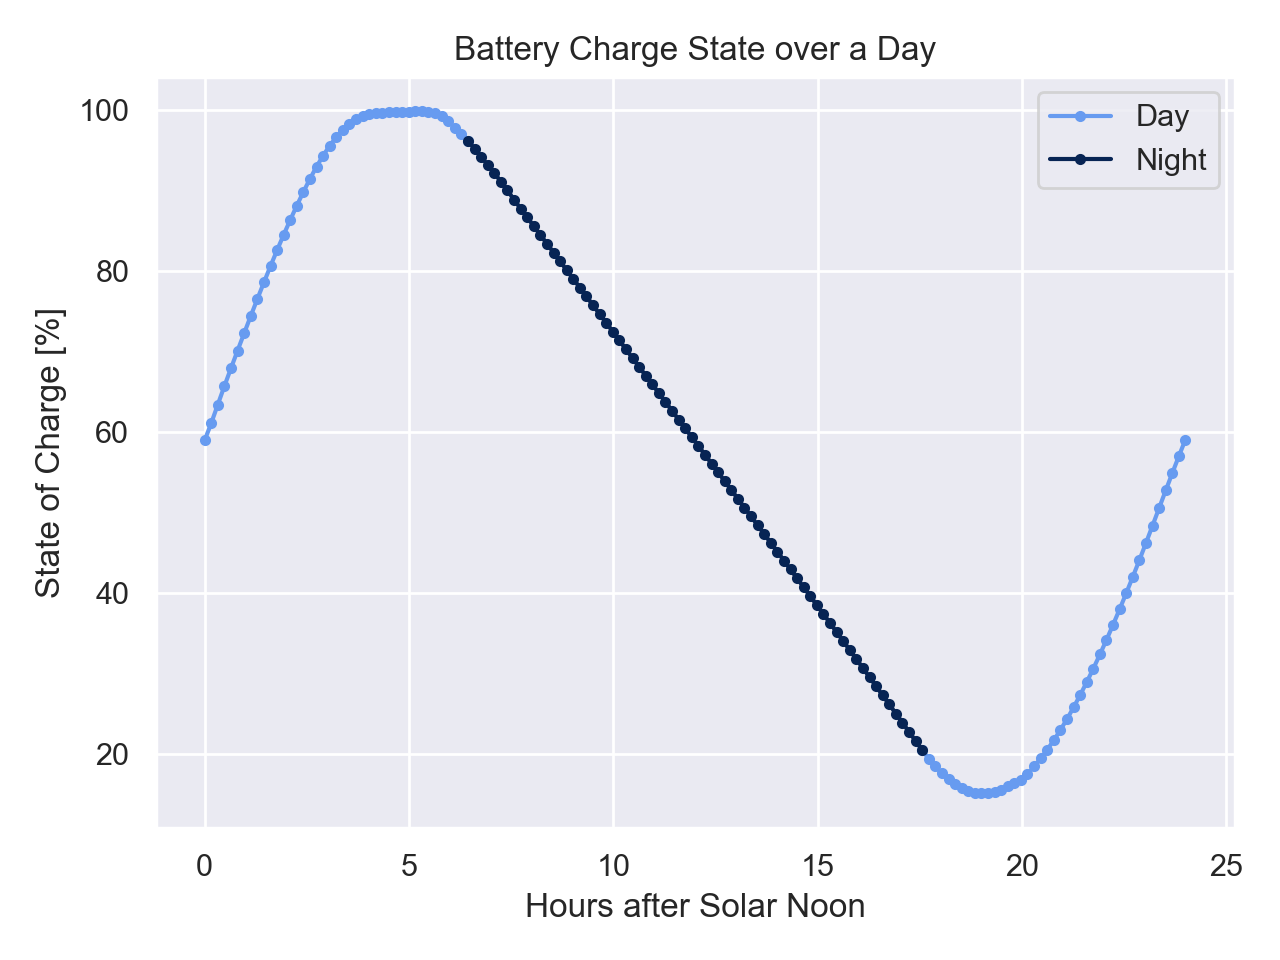
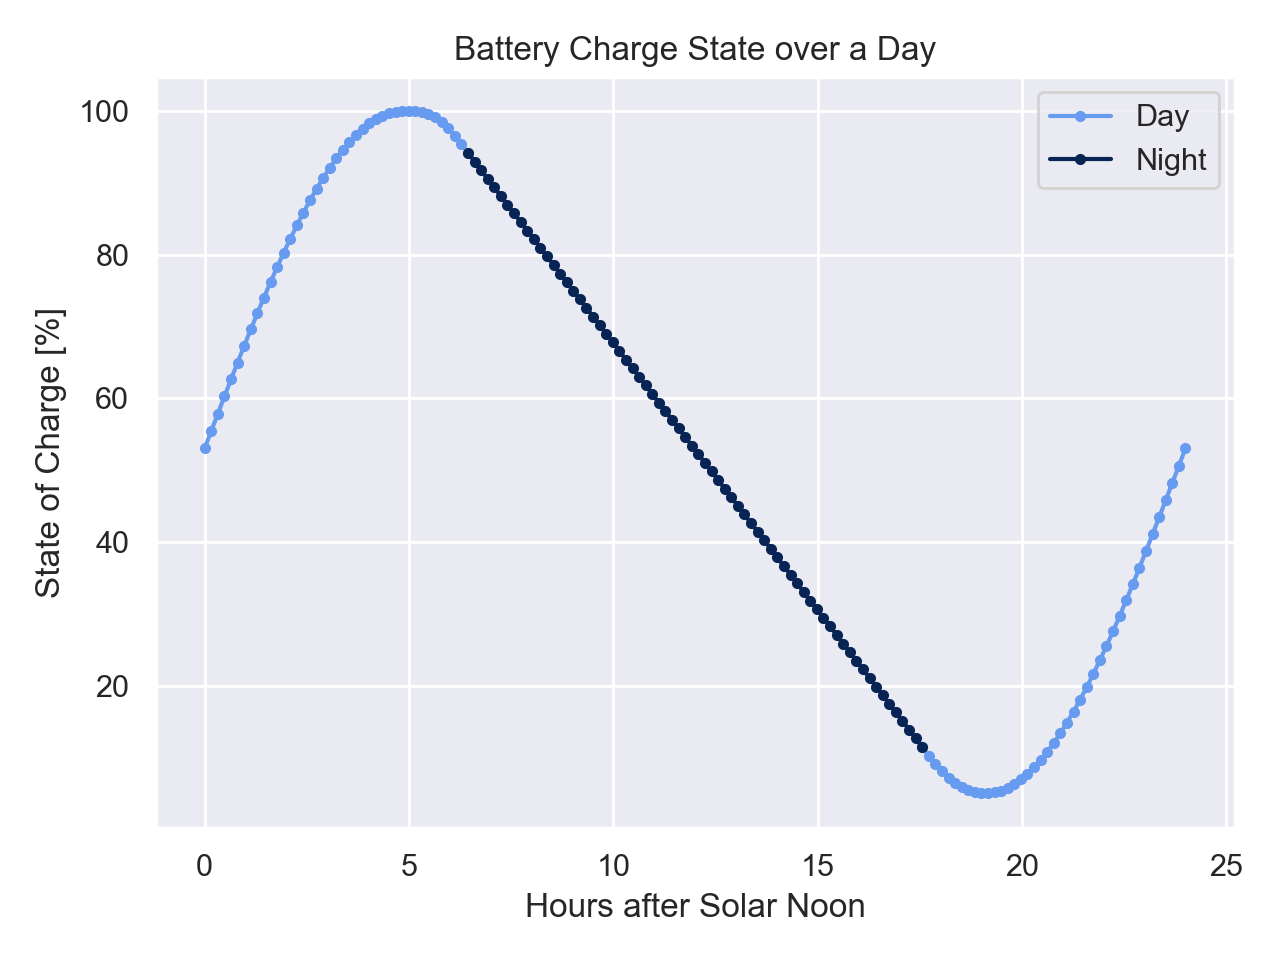
added updated uleck data

diff --git a/design_opt.py b/design_opt.py
@@ -34,10 +34,9 @@ file_to_save_to = "des_vars.json"
 # file_to_load_from = "des_vars.json"
 # file_to_save_to = None
 
-minimize = "wing.span() / 50"  # any "eval-able" expression
-
-
+# minimize = "wing.span() / 50"  # any "eval-able" expression
 # minimize = "max_mass_total / 300" # any "eval-able" expression
+minimize = "wing.span() / 50 * 0.9 + max_mass_total / 300 * 0.1"
 # minimize = "cas.sum1(airspeed/20)" # any "eval-able" expression
 
 def des_var(  # design variable
@@ -97,7 +96,7 @@ structural_mass_margin_multiplier = opti.parameter()
 opti.set_value(structural_mass_margin_multiplier, 1.25)
 energy_generation_margin = opti.parameter()
 opti.set_value(energy_generation_margin, 1.05)
-allowable_battery_depth_of_discharge = 0.85  # How much of the battery can you actually use? # Reviewed w/ Annick & Bjarni 4/30/2020
+allowable_battery_depth_of_discharge = 0.95  # How much of the battery can you actually use? # Reviewed w/ Annick & Bjarni 4/30/2020
 
 ##### Simulation Parameters
 n_timesteps = 150  # Only relevant if allow_trajectory_optimization is True.
@@ -195,7 +194,10 @@ wing_taper_ratio = 0.5
 
 # hstab
 hstab_span = des_var(name="hstab_span", initial_guess=12, scale_factor=15)
-opti.subject_to(hstab_span > 0.1)
+opti.subject_to([
+    hstab_span > 0.1,
+    hstab_span < wing_span / n_booms / 2
+])
 
 hstab_chord = des_var(name="hstab_chord", initial_guess=3, scale_factor=2)
 opti.subject_to([hstab_chord > 0.1])
@@ -756,9 +758,11 @@ mass_solar_cells = rho_solar_cells * area_solar
 # Jim Anderson believes 550 Wh/kg is possible.
 # Odysseus had cells that were 265 Wh/kg.
 
-battery_pack_cell_percentage = 0.75  # What percent of the battery pack consists of the module, by weight?
+battery_pack_cell_percentage = 0.89  # What percent of the battery pack consists of the module, by weight?
 # Accounts for module HW, BMS, pack installation, etc.
 # Ed Lovelace (in his presentation) gives 70% as a state-of-the-art fraction.
+# Used 75% in the 16.82 CDR.
+# According to Kevin Uleck, Odysseus realized an 89% packing factor here.
 
 battery_charge_efficiency = 0.985
 battery_discharge_efficiency = 0.985
